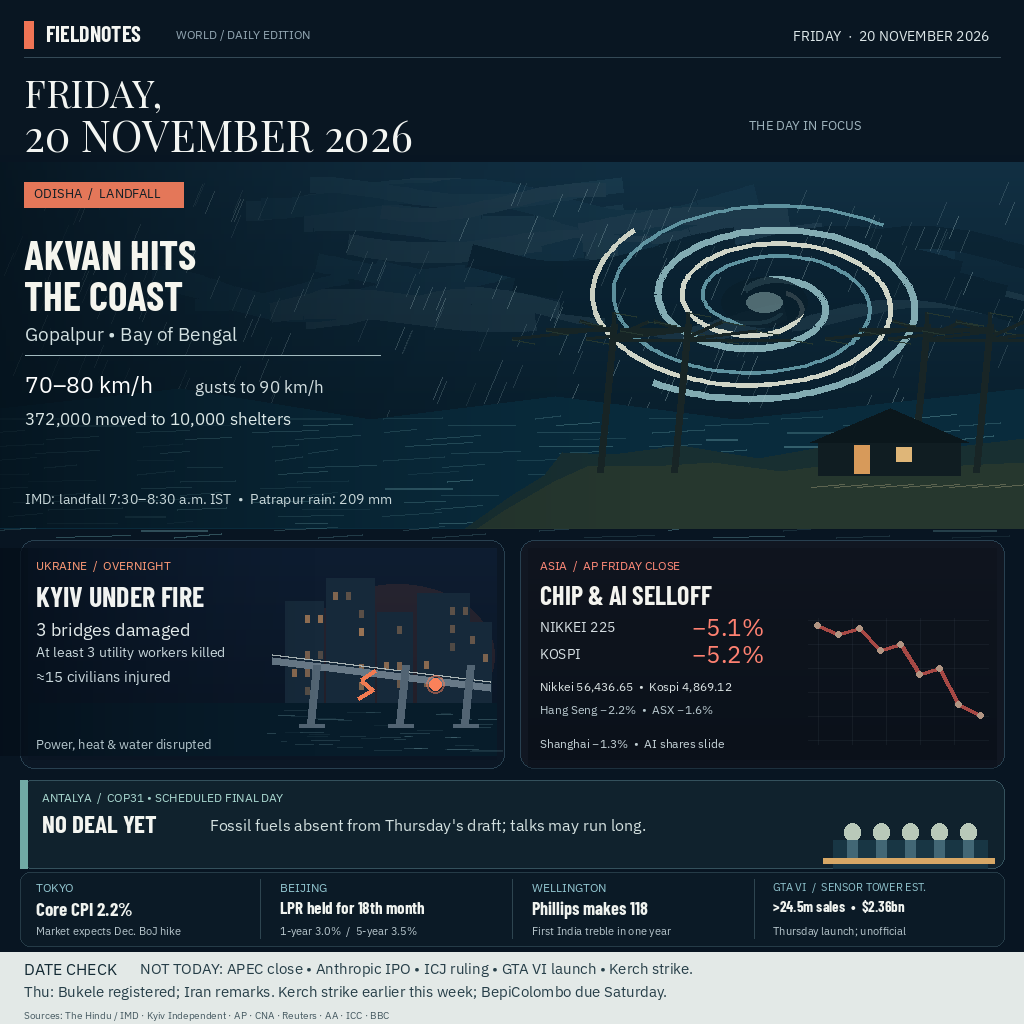
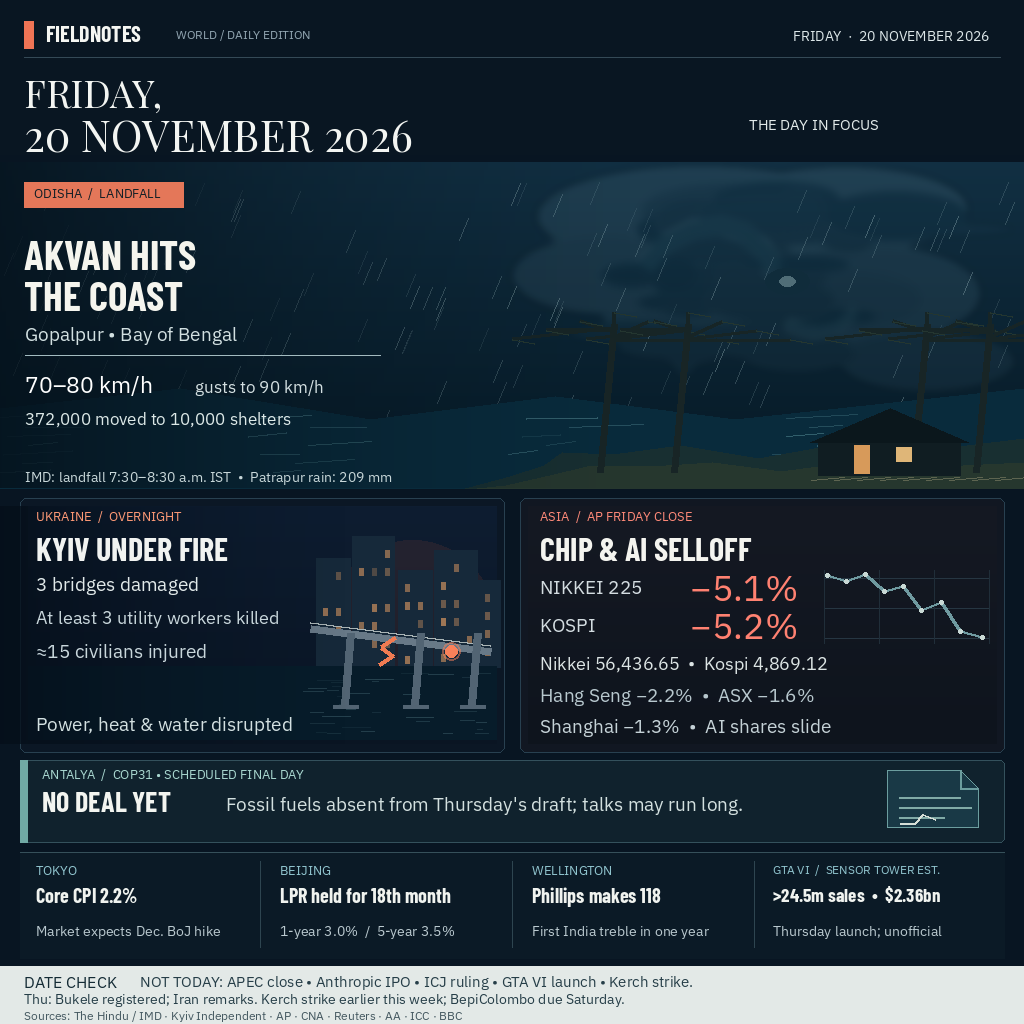
Refine Friday 20 November 2026 front page typography, cyclone, and layout
Apply the critique fixes: a more documentary storm, larger lower-section type, a taller ticker, a simpler COP31 band, and squarer editorial panels. Facts are unchanged.

diff --git a/main.ts b/main.ts
@@ -1,5 +1,6 @@
 // Friday, 20 November 2026 world-news front page.
 // Copy the finished, locally rendered editorial image; no network or third-party packages are used.
+// The deterministic artwork is kept beside this entrypoint for exact repeatable copies.
 //
 // Outside the grader's container, MAKEFUN_OUTPUT_DIR stands in for /output:
 //   mkdir -p out && MAKEFUN_OUTPUT_DIR=out node main.ts

diff --git a/render_cover.py b/render_cover.py
@@ -1,4 +1,4 @@
-from PIL import Image, ImageDraw, ImageFont
+from PIL import Image, ImageDraw, ImageFont, ImageFilter
 import math
 import random
 
@@ -25,13 +25,15 @@ def line(points, fill, width=1):
     d.line(points, fill=fill, width=width, joint="curve")
 
 
-def panel(box, fill="#0d1d2b", outline="#284050", radius=14):
+def panel(box, fill="#0d1d2b", outline="#284050", radius=6):
     d.rounded_rectangle(box, radius=radius, fill=fill, outline=outline, width=1)
 
 
-def paint_translucent(draw_scene):
+def paint_translucent(draw_scene, blur=0):
     layer = Image.new("RGBA", (W, H), (0, 0, 0, 0))
     draw_scene(ImageDraw.Draw(layer, "RGBA"))
+    if blur:
+        layer = layer.filter(ImageFilter.GaussianBlur(blur))
     im.paste(Image.alpha_composite(im.convert("RGBA"), layer).convert("RGB"))
 
 
@@ -56,10 +58,10 @@ text(793, 26, "FRIDAY  ·  20 NOVEMBER 2026", 14, "#dce6e8", FONT_SANS)
 line([(24, 57), (1000, 57)], "#344956", 1)
 text(24, 66, "FRIDAY,", 38, "#f3f5f2", FONT_SERIF)
 text(24, 105, "20 NOVEMBER 2026", 43, "#f3f5f2", FONT_SERIF)
-text(749, 116, "THE DAY IN FOCUS", 13, "#9fb4bd", FONT_SANS)
+text(749, 114, "THE DAY IN FOCUS", 15, "#e1e9e9", FONT_SANS)
 
 # Hero landscape — a painted monsoon coast with a broad storm eye and shelter lights.
-hy, hh = 162, 366
+hy, hh = 162, 326
 for y in range(hy, hy + hh):
     t = (y - hy) / hh
     c1 = (17, 47, 66)
@@ -67,41 +69,40 @@ for y in range(hy, hy + hh):
     c = tuple(round(a * (1 - t) + b * t) for a, b in zip(c1, c2))
     d.line((0, y, W, y), fill=c)
 
-# Layered cloud banks and a visible, spiral-shaped storm structure.
+# An irregular, low-contrast cyclone mass: broken cloud lobes rather than graphic rings.
 def draw_clouds(layer):
-    for i in range(22):
-        x0 = random.randint(150, 810)
-        y0 = random.randint(190, 310)
-        length = random.randint(150, 360)
-        phase = random.random() * math.tau
-        amplitude = random.randint(7, 18)
-        pts = [(x0+j, y0 + math.sin(j/53 + phase)*amplitude)
-               for j in range(0, length, 8)]
-        shade = random.choice([(126,161,171,29),(74,120,139,37),(37,84,105,42)])
-        layer.line(pts, fill=shade, width=random.randint(12, 31), joint="curve")
-    for i in range(9):
-        x0 = 470 + i * 45
-        y0 = 255 + (i % 4) * 17
-        pts = [(x0+j, y0 + math.sin(j/62+i*.41)*18)
-               for j in range(0, 265, 8)]
-        layer.line(pts, fill=(5,25,38,95), width=23, joint="curve")
-paint_translucent(draw_clouds)
-cx, cy = 764, 302
-for phase, color, width in [(0, "#82abb2", 7), (1.7, "#d0d5c7", 5), (3.2, "#5e929f", 4)]:
-    spiral = []
-    for step in range(230):
-        t = step / 229
-        angle = -2.3 + t * math.tau * 1.72 + phase
-        radius = 27 + t * 155
-        spiral.append((cx + math.cos(angle)*radius,
-                       cy + math.sin(angle)*radius*.56))
-    line(spiral, color, width)
-d.ellipse((cx-43, cy-25, cx+43, cy+25), fill=(9, 30, 43, 210))
-d.ellipse((cx-18, cy-10, cx+18, cy+10), fill=(151, 185, 185, 125))
+    lobes = [
+        (681, 222, 164, 52, 48), (762, 254, 121, 57, 55),
+        (850, 213, 125, 43, 42), (901, 282, 106, 49, 39),
+        (778, 331, 175, 36, 34), (626, 282, 94, 40, 31),
+        (934, 346, 88, 31, 25), (713, 197, 81, 26, 22),
+        (842, 301, 79, 29, 22),
+    ]
+    for i, (x, y, rx, ry, alpha) in enumerate(lobes):
+        x += random.randint(-27, 24)
+        y += random.randint(-15, 18)
+        layer.ellipse((x-rx, y-ry, x+rx, y+ry),
+                      fill=(91, 128, 145, alpha + (i % 3) * 5))
+    for i in range(34):
+        x = random.randint(625, 948)
+        y = random.randint(199, 354)
+        rx = random.randint(12, 72)
+        ry = random.randint(7, 24)
+        layer.ellipse((x-rx, y-ry, x+rx, y+ry),
+                      fill=random.choice([(97,137,150,15),(49,91,108,25),(24,63,80,34)]))
+    for points, width, shade in [
+        ([(644,267),(665,243),(693,229),(721,225),(745,233),(763,250),(775,270)], 19, (35,75,91,91)),
+        ([(787,324),(813,332),(837,327),(855,311)], 13, (48,87,101,74)),
+    ]:
+        layer.line(points, fill=shade, width=width, joint="curve")
+paint_translucent(draw_clouds, blur=4)
+cx, cy = 787, 281
+d.ellipse((cx-22, cy-13, cx+22, cy+13), fill="#102c3b")
+d.ellipse((cx-8, cy-5, cx+8, cy+5), fill="#506d77")
 
 # Rain veils.
 def draw_rain(layer):
-    for i in range(250):
+    for i in range(170):
         x = random.randint(0, W)
         y = random.randint(hy+20, hy+300)
         layer.line([(x, y), (x-9, y+22)],
@@ -110,21 +111,21 @@ paint_translucent(draw_rain)
 
 # Sea bands, foam, and wave crests.
 d.polygon([(0, 408), (180, 388), (370, 419), (555, 396), (735, 419), (1024, 388),
-           (1024, 528), (0, 528)], fill="#092b3c")
-for row in range(18):
-    y = 418 + row * 7
-    for j in range(9):
-        x = j * 132 + (row % 2) * 42 + random.randint(-14, 14)
+           (1024, 488), (0, 488)], fill="#092b3c")
+for row in range(7):
+    y = 418 + row * 9
+    for j in range(4):
+        x = j * 260 + (row % 2) * 36 + random.randint(-14, 14)
         length = random.randint(24, 74)
         line([(x, y), (x+length, y-random.randint(0, 4))],
              (113, 174, 181, random.randint(28, 104)), random.choice([1, 1, 2]))
 
 # Ganjam shore, rain-dark palms and a low-lit shelter.
-d.polygon([(465, 528), (510, 496), (544, 475), (562, 452), (613, 454),
-           (680, 445), (758, 458), (837, 444), (918, 451), (1024, 438), (1024, 528)],
+d.polygon([(465, 488), (510, 476), (544, 465), (562, 452), (613, 454),
+           (680, 445), (758, 458), (837, 444), (918, 451), (1024, 438), (1024, 488)],
           fill="#182f31")
-d.polygon([(506, 509), (554, 481), (587, 466), (651, 466), (712, 462),
-           (781, 471), (855, 461), (942, 466), (1024, 462), (1024, 528), (477, 528)],
+d.polygon([(506, 485), (554, 474), (587, 466), (651, 466), (712, 462),
+           (781, 471), (855, 461), (942, 466), (1024, 462), (1024, 488), (477, 488)],
           fill="#26372e")
 for x in [600, 674, 913, 976]:
     # Leaning trunks and wind-flattened palm fronds.
@@ -140,7 +141,7 @@ d.polygon([(810, 442), (890, 408), (968, 442)], fill="#0b171c")
 d.rectangle((854, 445, 869, 473), fill="#d79a5a")
 d.rectangle((896, 447, 911, 461), fill="#dfb678")
 for x in range(811, 1000, 23):
-    line([(x, 487), (x+33, 484)], (214, 198, 155, 80), 1)
+    line([(x, 480), (x+33, 477)], (214, 198, 155, 80), 1)
 
 # Smooth dark fade under the headline keeps the illustration visible and the type crisp.
 blend_left_fade(hy, hy+hh, 630, (5, 18, 28))
@@ -153,110 +154,103 @@ line([(25, 355), (380, 355)], "#a3bbc0", 1)
 text(25, 369, "70–80 km/h", 23, "#ffffff", FONT_SANS)
 text(195, 375, "gusts to 90 km/h", 17, "#d3dfe1", FONT_REG)
 text(25, 407, "372,000 moved to 10,000 shelters", 17, "#dce8e7", FONT_SANS)
-text(25, 489, "IMD: landfall 7:30–8:30 a.m. IST  •  Patrapur rain: 209 mm", 14, "#c8d7d9", FONT_REG)
+text(25, 467, "IMD: landfall 7:30–8:30 a.m. IST  •  Patrapur rain: 209 mm", 14, "#c8d7d9", FONT_REG)
 
-# Two independent, cinematic lead panels.
-panel((20, 540, 504, 768), "#0b1725")
-panel((520, 540, 1004, 768), "#111722")
+# Expanded, squared editorial lead panels for Kyiv and the Asian close.
+panel((20, 498, 504, 752), "#0b1725")
+panel((520, 498, 1004, 752), "#111722")
 
 # Kyiv: river, damaged bridge, skyline, fire glow and emergency lamps.
-for y in range(548, 760):
-    t=(y-548)/212
+for y in range(506, 744):
+    t=(y-506)/238
     col=(14, 29, 49)
     d.line((28,y,496,y), fill=tuple(int(c*(1-t*.27)) for c in col))
-d.ellipse((300, 584, 494, 727), fill=(217, 91, 56, 30))
-# distant building silhouettes
-for bx, bw, top in [(285,38,601),(326,48,578),(377,35,612),(417,52,593),(463,28,622)]:
-    d.rectangle((bx, top, bx+bw, 704), fill="#16293a")
+d.ellipse((330, 540, 494, 704), fill=(217, 91, 56, 27))
+for bx, bw, top in [(316,34,558),(352,42,536),(398,34,570),(434,43,550),(478,22,580)]:
+    d.rectangle((bx, top, bx+bw, 667), fill="#16293a")
     for wx in range(bx+7, bx+bw-4, 13):
-        for wy in range(top+14, 690, 18):
+        for wy in range(top+14, 657, 18):
             if random.random() > .53:
                 d.rectangle((wx,wy,wx+4,wy+7), fill=(226,156,98,random.randint(70,170)))
-# River reflections
-d.rectangle((28, 703, 496, 755), fill="#071c2a")
-for _ in range(45):
-    x=random.randint(265,490); y=random.randint(710,752)
-    line([(x,y),(x+random.randint(5,32),y)],(111,157,166,random.randint(20,90)),1)
-# Bridge deck and battered piers
-line([(272, 660), (490, 687)], "#687987", 8)
-line([(272, 654), (490, 681)], "#aab5b6", 2)
-for bx in [316, 405, 470]:
-    line([(bx, 665), (bx-6, 723)], "#526473", 8)
-    line([(bx-17, 725), (bx+8, 725)], "#526473", 4)
-line([(375, 671), (361, 680), (373, 690), (358, 699)], "#f17b52", 4)
-# low emergency light
-d.ellipse((429, 678, 441, 690), fill="#fa815a")
-d.ellipse((426, 675, 444, 693), outline=(249,128,89,130), width=2)
-# left-side fade behind copy
-blend_left_fade(548, 756, 315, (5, 15, 26))
-text(36, 557, "UKRAINE  /  OVERNIGHT", 12, "#ff9a76", FONT_SANS)
-text(36, 579, "KYIV UNDER FIRE", 28, "#f1f3f1", FONT_COND)
-text(36, 617, "3 bridges damaged", 18, "#e1e9e9", FONT_SANS)
-text(36, 642, "At least 3 utility workers killed", 14, "#c9d7dc", FONT_REG)
-text(36, 666, "≈15 civilians injured", 15, "#c9d7dc", FONT_REG)
-text(36, 735, "Power, heat & water disrupted", 13, "#b7c8ce", FONT_REG)
+d.rectangle((28, 666, 496, 739), fill="#071c2a")
+for _ in range(33):
+    x=random.randint(302,490); y=random.randint(672,734)
+    line([(x,y),(x+random.randint(5,29),y)],(111,157,166,random.randint(20,75)),1)
+line([(310, 628), (490, 651)], "#687987", 8)
+line([(310, 622), (490, 645)], "#aab5b6", 2)
+for bx in [350, 420, 477]:
+    line([(bx, 633), (bx-6, 704)], "#526473", 8)
+    line([(bx-17, 706), (bx+8, 706)], "#526473", 4)
+line([(395, 638), (381, 647), (393, 656), (379, 665)], "#f17b52", 4)
+d.ellipse((445, 645, 457, 657), fill="#fa815a")
+d.ellipse((442, 642, 460, 660), outline=(249,128,89,130), width=2)
+blend_left_fade(506, 744, 345, (5, 15, 26))
+text(36, 507, "UKRAINE  /  OVERNIGHT", 13, "#ff9a76", FONT_SANS)
+text(36, 529, "KYIV UNDER FIRE", 32, "#f1f3f1", FONT_COND)
+text(36, 571, "3 bridges damaged", 19, "#e1e9e9", FONT_SANS)
+text(36, 605, "At least 3 utility workers killed", 18, "#c9d7dc", FONT_REG)
+text(36, 638, "≈15 civilians injured", 19, "#c9d7dc", FONT_REG)
+text(36, 711, "Power, heat & water disrupted", 19, "#d3e0e1", FONT_REG)
 
-# Asian markets: a physical-looking quote wall and a sharply falling index trace.
-for y in range(548, 760):
-    t=(y-548)/212
+# Asia's Friday close: restrained three-line grid, chart, and prominent index moves.
+for y in range(506, 744):
+    t=(y-506)/238
     d.line((528,y,996,y), fill=(20-int(7*t),24-int(5*t),34-int(6*t)))
-for x in range(818, 988, 34):
-    line([(x, 618), (x, 744)], (103,115,128,40), 1)
-for y in range(620, 744, 24):
-    line([(808,y),(988,y)],(103,115,128,40),1)
-points=[(817,625),(838,634),(859,628),(880,650),(900,644),(919,674),(939,668),(958,704),(980,715)]
-line(points, "#ef655b", 4)
+for y in (578, 608, 638):
+    line([(824,y),(989,y)], "#263642", 1)
+for x in (824, 879, 934, 989):
+    line([(x,570),(x,643)], "#202e39", 1)
+points=[(827,575),(846,581),(865,574),(884,591),(903,586),(921,610),(941,602),(960,631),(982,637)]
+line(points, "#6f9aa0", 3)
 for x,y in points:
-    d.ellipse((x-3,y-3,x+3,y+3),fill="#ffd2b4")
-# dark tint keeps the chart legible behind labels.
-d.rectangle((528,548,996,768), fill=(3,11,20,78))
-text(540, 557, "ASIA  /  AP FRIDAY CLOSE", 12, "#ff8978", FONT_SANS)
-text(540, 579, "CHIP & AI SELLOFF", 26, "#f4f4ef", FONT_COND)
-text(540, 617, "NIKKEI 225", 14, "#d4dde1", FONT_SANS)
-text(692, 611, "−5.1%", 24, "#ff8171", FONT_SANS)
-text(540, 644, "KOSPI", 14, "#d4dde1", FONT_SANS)
-text(692, 638, "−5.2%", 24, "#ff8171", FONT_SANS)
-text(540, 678, "Nikkei 56,436.65  •  Kospi 4,869.12", 12, "#dce4e4", FONT_SANS)
-text(540, 701, "Hang Seng −2.2%  •  ASX −1.6%", 12, "#b8c8ce", FONT_REG)
-text(540, 735, "Shanghai −1.3%  •  AI shares slide", 12, "#c5d2d7", FONT_REG)
+    d.ellipse((x-2,y-2,x+2,y+2),fill="#c9d9d5")
+text(540, 507, "ASIA  /  AP FRIDAY CLOSE", 13, "#ff8978", FONT_SANS)
+text(540, 529, "CHIP & AI SELLOFF", 32, "#f4f4ef", FONT_COND)
+text(540, 574, "NIKKEI 225", 19, "#d4dde1", FONT_SANS)
+text(690, 564, "−5.1%", 36, "#ff8171", FONT_SANS)
+text(540, 612, "KOSPI", 19, "#d4dde1", FONT_SANS)
+text(690, 602, "−5.2%", 36, "#ff8171", FONT_SANS)
+text(540, 651, "Nikkei 56,436.65  •  Kospi 4,869.12", 18, "#dce4e4", FONT_REG)
+text(540, 682, "Hang Seng −2.2%  •  ASX −1.6%", 19, "#b8c8ce", FONT_REG)
+text(540, 713, "Shanghai −1.3%  •  AI shares slide", 19, "#c5d2d7", FONT_REG)
 
-# COP31 gets a clear, factual supporting headline and a visual negotiation-room cue.
-panel((20, 780, 1004, 868), "#10222d", "#34515c", 12)
-d.rectangle((20, 780, 27, 868), fill="#71aaa5")
-text(42, 789, "ANTALYA  /  COP31 • SCHEDULED FINAL DAY", 12, "#a9d8d0", FONT_SANS)
-text(42, 808, "NO DEAL YET", 25, "#f3f5f0", FONT_COND)
-text(210, 814, "Fossil fuels absent from Thursday's draft; talks may run long.", 16, "#d3e0df", FONT_REG)
-# Simple lit summit-room silhouette, not a generic climate icon.
-d.rectangle((833, 840, 987, 868), fill="#183644")
-for i in range(5):
-    x=844+i*29
-    d.ellipse((x, 823, x+16, 841), fill="#b9c9b9")
-    d.rectangle((x+3, 840, x+13, 858), fill="#426775")
-d.rectangle((823, 858, 994, 863), fill="#d7a866")
+# COP31: muted teal diplomacy band with a single uncompleted agreement document.
+panel((20, 760, 1004, 842), "#10222d", "#34515c", 5)
+d.rectangle((20, 760, 27, 842), fill="#71aaa5")
+text(42, 765, "ANTALYA  /  COP31 • SCHEDULED FINAL DAY", 13, "#a9d8d0", FONT_SANS)
+text(42, 784, "NO DEAL YET", 28, "#f3f5f0", FONT_COND)
+text(226, 791, "Fossil fuels absent from Thursday's draft; talks may run long.", 19, "#d3e0df", FONT_REG)
+d.polygon([(887, 770), (960, 770), (978, 788), (978, 827), (887, 827)],
+          fill="#193946", outline="#6c9e9f")
+line([(960,770),(960,788),(978,788)], "#6c9e9f", 2)
+for y, width in [(797,61),(807,72),(817,45)]:
+    line([(899,y),(899+width,y)], "#80aaa6", 2)
+line([(900,823),(915,823),(923,814),(935,819)], "#d6dfd7", 2)
 
-# Compact but legible briefs: one line each, with estimates and expectations attributed.
-panel((20, 872, 1004, 946), "#0b1a26", "#253b47", 10)
-text(36, 879, "TOKYO", 12, "#91c5cf", FONT_SANS)
-text(36, 897, "Core CPI 2.2%", 19, "#f0f3ef", FONT_COND)
-text(36, 923, "Market expects Dec. BoJ hike", 11, "#bac9cf", FONT_REG)
-line([(260,879),(260,938)],"#2e4550",1)
-text(280, 879, "BEIJING", 12, "#91c5cf", FONT_SANS)
-text(280, 897, "LPR held for 18th month", 17, "#f0f3ef", FONT_COND)
-text(280, 923, "1-year 3.0%  /  5-year 3.5%", 11, "#bac9cf", FONT_REG)
-line([(512,879),(512,938)],"#2e4550",1)
-text(532, 879, "WELLINGTON", 12, "#91c5cf", FONT_SANS)
-text(532, 897, "Phillips makes 118", 18, "#f0f3ef", FONT_COND)
-text(532, 923, "First India treble in one year", 11, "#bac9cf", FONT_REG)
-line([(754,879),(754,938)],"#2e4550",1)
-text(773, 879, "GTA VI  /  SENSOR TOWER EST.", 11, "#91c5cf", FONT_SANS)
-text(773, 897, ">24.5m sales  •  $2.36bn", 15, "#f0f3ef", FONT_COND)
-text(773, 923, "Thursday launch; unofficial", 11, "#bac9cf", FONT_REG)
+# Four supporting briefs share one open, 106px ticker with thin dividing rules.
+d.rectangle((20, 852, 1004, 958), fill="#0b1a26")
+line([(20,852),(1004,852)],"#36505a",1)
+text(36, 861, "TOKYO", 13, "#91c5cf", FONT_SANS)
+text(36, 883, "Core CPI 2.2%", 20, "#f0f3ef", FONT_COND)
+text(36, 921, "Market expects Dec. BoJ hike", 14, "#bac9cf", FONT_REG)
+line([(260,861),(260,947)],"#2e4550",1)
+text(280, 861, "BEIJING", 13, "#91c5cf", FONT_SANS)
+text(280, 883, "LPR held for 18th month", 20, "#f0f3ef", FONT_COND)
+text(280, 921, "1-year 3.0%  /  5-year 3.5%", 14, "#bac9cf", FONT_REG)
+line([(512,861),(512,947)],"#2e4550",1)
+text(532, 861, "WELLINGTON", 13, "#91c5cf", FONT_SANS)
+text(532, 883, "Phillips makes 118", 20, "#f0f3ef", FONT_COND)
+text(532, 921, "First India treble in one year", 14, "#bac9cf", FONT_REG)
+line([(754,861),(754,947)],"#2e4550",1)
+text(773, 861, "GTA VI  /  SENSOR TOWER EST.", 12, "#91c5cf", FONT_SANS)
+text(773, 883, ">24.5m sales  •  $2.36bn", 19, "#f0f3ef", FONT_COND)
+text(773, 921, "Thursday launch; unofficial", 14, "#bac9cf", FONT_REG)
 
-# A readable date-check footer separates Thursday context from today's leads.
-d.rectangle((0, 952, W, H), fill="#e3e9e7")
-text(24, 958, "DATE CHECK", 16, "#142b35", FONT_SANS)
-text(140, 958, "NOT TODAY: APEC close • Anthropic IPO • ICJ ruling • GTA VI launch • Kerch strike.", 15, "#263e48", FONT_REG)
-text(24, 981, "Thu: Bukele registered; Iran remarks. Kerch strike earlier this week; BepiColombo due Saturday.", 15, "#263e48", FONT_REG)
-text(24, 1008, "Sources: The Hindu / IMD · Kyiv Independent · AP · CNA · Reuters · AA · ICC · BBC", 10, "#43575f", FONT_REG)
+# Cool date-check footer, spaced clear of the ticker.
+d.rectangle((0, 966, W, H), fill="#e3e9e7")
+text(24, 971, "DATE CHECK", 16, "#142b35", FONT_SANS)
+text(140, 971, "NOT TODAY: APEC close • Anthropic IPO • ICJ ruling • GTA VI launch • Kerch strike.", 15, "#263e48", FONT_REG)
+text(24, 989, "Thu: Bukele registered; Iran remarks. Kerch strike earlier this week; BepiColombo due Saturday.", 14, "#263e48", FONT_REG)
+text(24, 1007, "Sources: The Hindu / IMD · Kyiv Independent · AP · CNA · Reuters · AA · ICC · BBC", 12, "#43575f", FONT_REG)
 
 im.save("entry.png", format="PNG", optimize=True)
